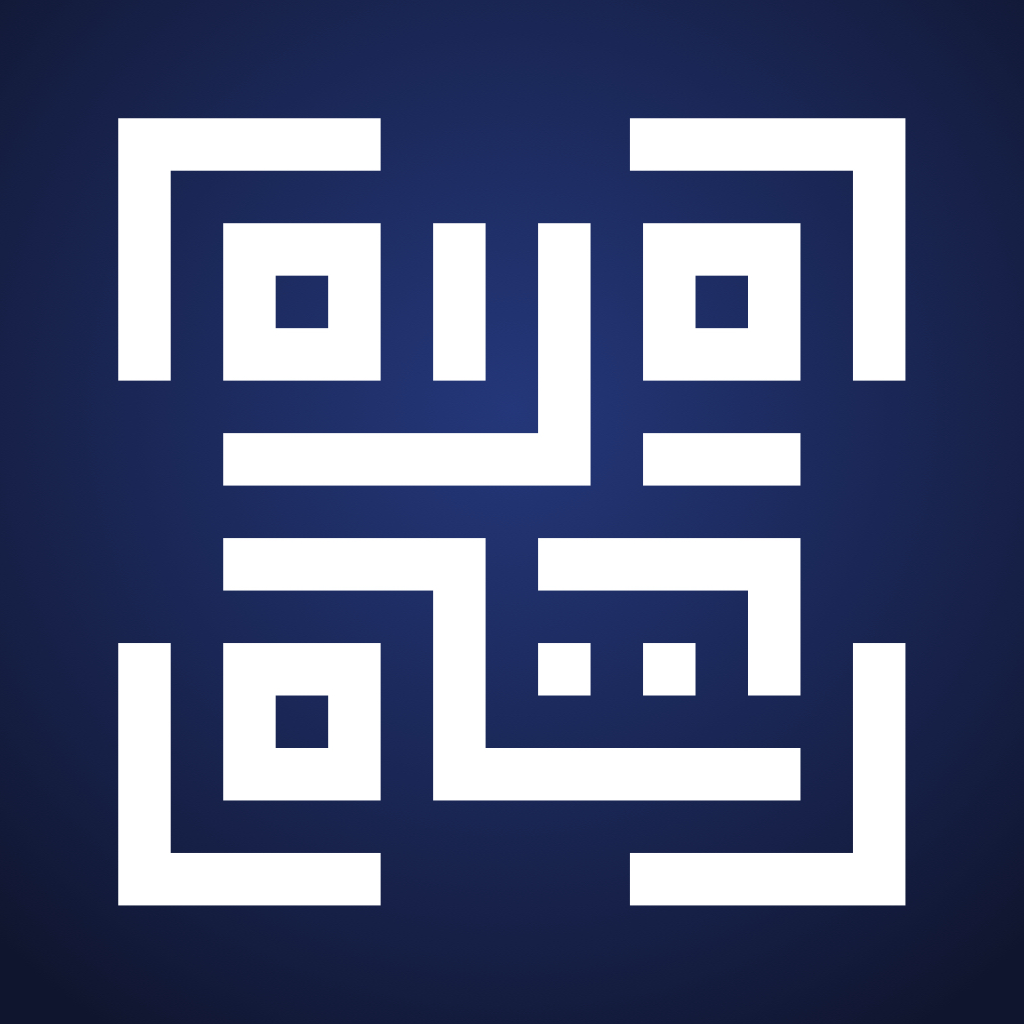
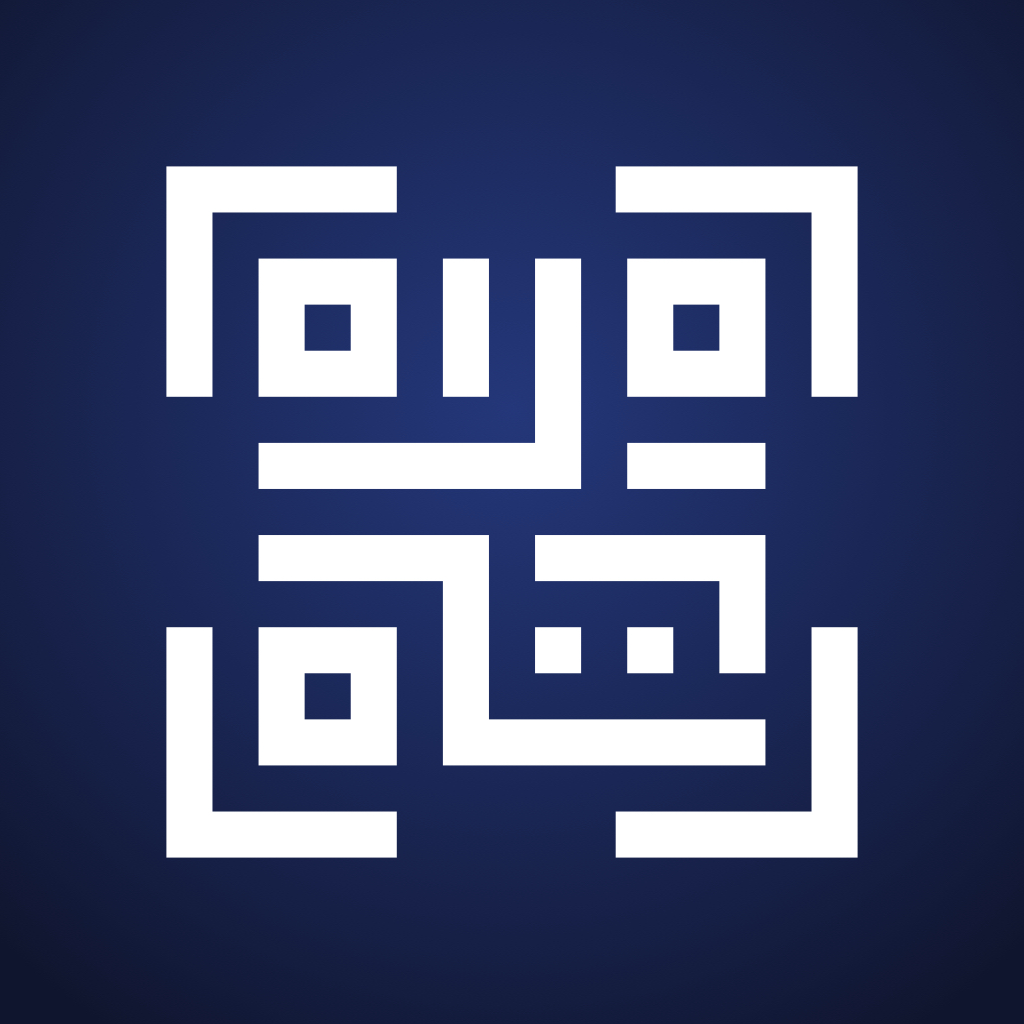
fix: refine app artwork and remove clutter

Changed region(s): [[0.0938, 0.0938, 0.9062, 0.9062]]

diff --git a/src/components/ui.test.tsx b/src/components/ui.test.tsx
@@ -336,7 +336,7 @@ describe('scanner UI', () => {
     const onBack = jest.fn();
     render(<HistoryScreen onBack={onBack} />);
     expect(screen.getByText('History')).toBeTruthy();
-    expect(screen.getByText('Accepted scans appear here.')).toBeTruthy();
+    expect(screen.queryByText('Accepted scans appear here.')).toBeNull();
     expect(screen.getByLabelText('Back')).toBeTruthy();
     fireEvent.press(screen.getByTestId('history-back'));
     expect(onBack).toHaveBeenCalledTimes(1);
@@ -346,7 +346,7 @@ describe('scanner UI', () => {
     setLocale('es');
     render(<HistoryScreen />);
     expect(screen.getByText('Historial')).toBeTruthy();
-    expect(screen.getByText('Los escaneos aceptados aparecen aquí.')).toBeTruthy();
+    expect(screen.queryByText('Los escaneos aceptados aparecen aquí.')).toBeNull();
     expect(screen.getByLabelText('Atrás')).toBeTruthy();
   });
 
@@ -396,7 +396,7 @@ describe('center scan target (SCN-02)', () => {
     }
   });
 
-  test('first-use coaching disappears after the first accepted scan and never returns', async () => {
+  test('does not add coaching copy around the scan target', async () => {
     const source = new NativeEngineObservationSource('visionkit');
     const store = new ScannerSessionStore({
       cameraAccess: new CameraAccessFixtureProvider({ authorization: 'authorized' }),
@@ -405,12 +405,12 @@ describe('center scan target (SCN-02)', () => {
     await store.activateScanner();
     render(<ScannerScreen session={store} engine="visionkit" />);
 
-    expect(screen.getByTestId('center-scan-coaching')).toBeTruthy();
+    expect(screen.queryByTestId('center-scan-coaching')).toBeNull();
     expect(
-      screen.getByText(
+      screen.queryByText(
         'Place code near here. Codes anywhere in view are recognized.',
       ),
-    ).toBeTruthy();
+    ).toBeNull();
 
     act(() => {
       publishNativeObservations('visionkit', [
@@ -538,21 +538,4 @@ describe('center scan target (SCN-02)', () => {
     ).toEqual(ScannerRecognitionRegion.fullPreview);
   });
 
-  test('coaching is time-limited even without a scan', async () => {
-    jest.useFakeTimers();
-    try {
-      const store = session('authorized');
-      await store.activateScanner();
-      render(<ScannerScreen session={store} engine="visionkit" />);
-
-      expect(screen.getByTestId('center-scan-coaching')).toBeTruthy();
-      act(() => {
-        jest.advanceTimersByTime(15000);
-      });
-      expect(screen.queryByTestId('center-scan-coaching')).toBeNull();
-      expect(screen.getByTestId('center-scan-guide')).toBeTruthy();
-    } finally {
-      jest.useRealTimers();
-    }
-  });
 });

diff --git a/src/components/ScanTargetGuide.tsx b/src/components/ScanTargetGuide.tsx
@@ -1,10 +1,8 @@
-import { StyleSheet, Text, View } from 'react-native';
+import { StyleSheet, View } from 'react-native';
 
 import { COMPACT_GUIDE_SIZE } from '@/components/adaptiveLayout';
-import { t } from '@/i18n';
 
 type Props = {
-  showCoaching: boolean;
   highContrast?: boolean;
   /** Outer guide box size in points. Capped by adaptive layout for iPad. */
   guideSize?: number;
@@ -14,7 +12,6 @@ export const CENTER_SCAN_GUIDE_SIZE = COMPACT_GUIDE_SIZE;
 export const CENTER_SCAN_CORNER_LENGTH = 36;
 
 export function ScanTargetGuide({
-  showCoaching,
   highContrast = false,
   guideSize = CENTER_SCAN_GUIDE_SIZE,
 }: Props) {
@@ -75,14 +72,6 @@ export function ScanTargetGuide({
           style={[styles.corner, baseCorner, styles.bottomRight]}
         />
       </View>
-      {showCoaching ? (
-        <Text
-          testID="center-scan-coaching"
-          pointerEvents="none"
-          style={[styles.coaching, highContrast && styles.coachingHighContrast]}>
-          {t('scanTargetCoaching')}
-        </Text>
-      ) : null}
     </View>
   );
 }
@@ -132,21 +121,5 @@ const styles = StyleSheet.create({
     borderLeftWidth: 0,
     borderTopWidth: 0,
     borderBottomRightRadius: 12,
-  },
-  coaching: {
-    marginTop: 12,
-    maxWidth: 280,
-    paddingHorizontal: 12,
-    paddingVertical: 8,
-    borderRadius: 8,
-    overflow: 'hidden',
-    backgroundColor: 'rgba(0,0,0,0.55)',
-    color: '#ffffff',
-    fontSize: 14,
-    lineHeight: 20,
-    textAlign: 'center',
-  },
-  coachingHighContrast: {
-    backgroundColor: 'rgba(0,0,0,0.85)',
   },
 });

diff --git a/src/i18n.ts b/src/i18n.ts
@@ -14,7 +14,6 @@ const en = {
   pointCamera: 'Point the camera at a QR code. Scanning starts automatically.',
   cameraPurpose:
     'QR Scanner recognizes QR codes on this device. Camera frames are never uploaded or saved.',
-  historyPlaceholder: 'Accepted scans appear here.',
   historyScanCta: 'Scan a QR code',
   historyToday: 'Today',
   historyYesterday: 'Yesterday',
@@ -23,7 +22,6 @@ const en = {
   historySensitiveNotSaved: 'This sensitive code was not saved.',
   historyWifiNotSaved: 'The Wi-Fi network was not saved.',
   liveScanArea: 'Live camera scan area',
-  scanTargetCoaching: 'Place code near here. Codes anywhere in view are recognized.',
   copy: 'Copy',
   open: 'Open',
   share: 'Share',
@@ -100,7 +98,6 @@ const es: typeof en = {
   pointCamera: 'Apunta la cámara a un código QR. El escaneo comienza automáticamente.',
   cameraPurpose:
     'QR Scanner reconoce códigos QR en este dispositivo. Los fotogramas de la cámara nunca se suben ni se guardan.',
-  historyPlaceholder: 'Los escaneos aceptados aparecen aquí.',
   historyScanCta: 'Escanear un código QR',
   historyToday: 'Hoy',
   historyYesterday: 'Ayer',
@@ -109,8 +106,6 @@ const es: typeof en = {
   historySensitiveNotSaved: 'Este código confidencial no se guardó.',
   historyWifiNotSaved: 'La red Wi-Fi no se guardó.',
   liveScanArea: 'Área de escaneo con cámara en vivo',
-  scanTargetCoaching:
-    'Coloca el código cerca de aquí. Se reconocen los códigos en cualquier parte de la vista.',
   copy: 'Copiar',
   open: 'Abrir',
   share: 'Compartir',

diff --git a/src/components/ScannerScreen.tsx b/src/components/ScannerScreen.tsx
@@ -64,19 +64,7 @@ export function ScannerScreen({
   const isLiveForGuide =
     scanner.cameraAccessState === 'ready' &&
     !scanner.engineID.startsWith('fixture');
-  const [coachingExpired, setCoachingExpired] = useState(false);
   const [chooserOpen, setChooserOpen] = useState(false);
-
-  useEffect(() => {
-    if (!isLiveForGuide || scanner.hasAcceptedScan) {
-      return;
-    }
-    const id = setTimeout(
-      () => setCoachingExpired(true),
-      SCAN_TARGET_COACHING_TIMEOUT_MS,
-    );
-    return () => clearTimeout(id);
-  }, [isLiveForGuide, scanner.hasAcceptedScan]);
 
   const stickyPayload = scanner.currentResult?.rawPayload ?? null;
   useEffect(() => {
@@ -85,8 +73,6 @@ export function ScannerScreen({
     }
     announceAcceptedScan(stickyPayload);
   }, [stickyPayload]);
-
-  const showCoaching = !scanner.hasAcceptedScan && !coachingExpired;
 
   let body;
   switch (scanner.cameraAccessState) {
@@ -145,7 +131,6 @@ export function ScannerScreen({
           ) : null}
           {isLiveCamera ? (
             <ScanTargetGuide
-              showCoaching={showCoaching}
               highContrast={highContrast}
               guideSize={adaptive.guideSize}
             />
@@ -283,8 +268,6 @@ export function ScannerScreen({
     </View>
   );
 }
-
-export const SCAN_TARGET_COACHING_TIMEOUT_MS = 12000;
 
 function ObservationHighlights({
   observations,

diff --git a/src/components/historyScreen.test.tsx b/src/components/historyScreen.test.tsx
@@ -146,12 +146,12 @@ describe('HistoryScreen (HIS-02)', () => {
     setLocale('en');
   });
 
-  test('empty state explains accepted scans and offers a path back to Scanner', () => {
+  test('empty state offers a path back to Scanner without redundant copy', () => {
     const onBack = jest.fn();
     render(<HistoryScreen onBack={onBack} />);
 
     expect(screen.getByText('History')).toBeTruthy();
-    expect(screen.getByText('Accepted scans appear here.')).toBeTruthy();
+    expect(screen.queryByText('Accepted scans appear here.')).toBeNull();
     expect(screen.getByLabelText('Back')).toBeTruthy();
     expect(screen.getByLabelText('Scan a QR code')).toBeTruthy();
     fireEvent.press(screen.getByTestId('history-scan-cta'));
@@ -164,7 +164,7 @@ describe('HistoryScreen (HIS-02)', () => {
     setLocale('es');
     render(<HistoryScreen />);
     expect(screen.getByText('Historial')).toBeTruthy();
-    expect(screen.getByText('Los escaneos aceptados aparecen aquí.')).toBeTruthy();
+    expect(screen.queryByText('Los escaneos aceptados aparecen aquí.')).toBeNull();
     expect(screen.getByLabelText('Atrás')).toBeTruthy();
     expect(screen.getByLabelText('Escanear un código QR')).toBeTruthy();
   });

diff --git a/src/appAssets.test.ts b/src/appAssets.test.ts
@@ -1,0 +1,32 @@
+import fs from 'node:fs';
+import path from 'node:path';
+
+import appJson from '../app.json';
+import iconJson from '../assets/expo.icon/icon.json';
+
+describe('app artwork', () => {
+  it('uses the QR mark for a square, legible native splash', () => {
+    const splashPlugin = appJson.expo.plugins.find(
+      (plugin): plugin is [string, { backgroundColor: string; image: string; imageWidth: number }] =>
+        Array.isArray(plugin) && plugin[0] === 'expo-splash-screen',
+    );
+
+    expect(splashPlugin).toEqual([
+      'expo-splash-screen',
+      {
+        backgroundColor: '#10152F',
+        image: './assets/images/splash-icon.png',
+        imageWidth: 128,
+      },
+    ]);
+
+    const splash = fs.readFileSync(path.join(__dirname, '../assets/images/splash-icon.png'));
+    expect(splash.subarray(1, 4).toString()).toBe('PNG');
+    expect(splash.readUInt32BE(16)).toBe(1024);
+    expect(splash.readUInt32BE(20)).toBe(1024);
+  });
+
+  it('gives the app icon mark enough space inside the iOS mask', () => {
+    expect(iconJson.groups[0].layers[0].position.scale).toBe(0.72);
+  });
+});

diff --git a/src/components/HistoryScreen.tsx b/src/components/HistoryScreen.tsx
@@ -353,7 +353,6 @@ export function HistoryScreen({
       ) : empty ? (
         <View testID="history-empty" style={styles.empty}>
           <Text style={[styles.title, textColor]}>{t('history')}</Text>
-          <Text style={[styles.description, textColor]}>{t('historyPlaceholder')}</Text>
           <Pressable
             accessibilityRole="button"
             accessibilityLabel={t('historyScanCta')}
@@ -435,11 +434,6 @@ const styles = StyleSheet.create({
     fontSize: 16,
     fontWeight: '600',
     color: '#ff3b30',
-  },
-  description: {
-    fontSize: 16,
-    textAlign: 'center',
-    opacity: 0.7,
   },
   cta: {
     marginTop: 8,
